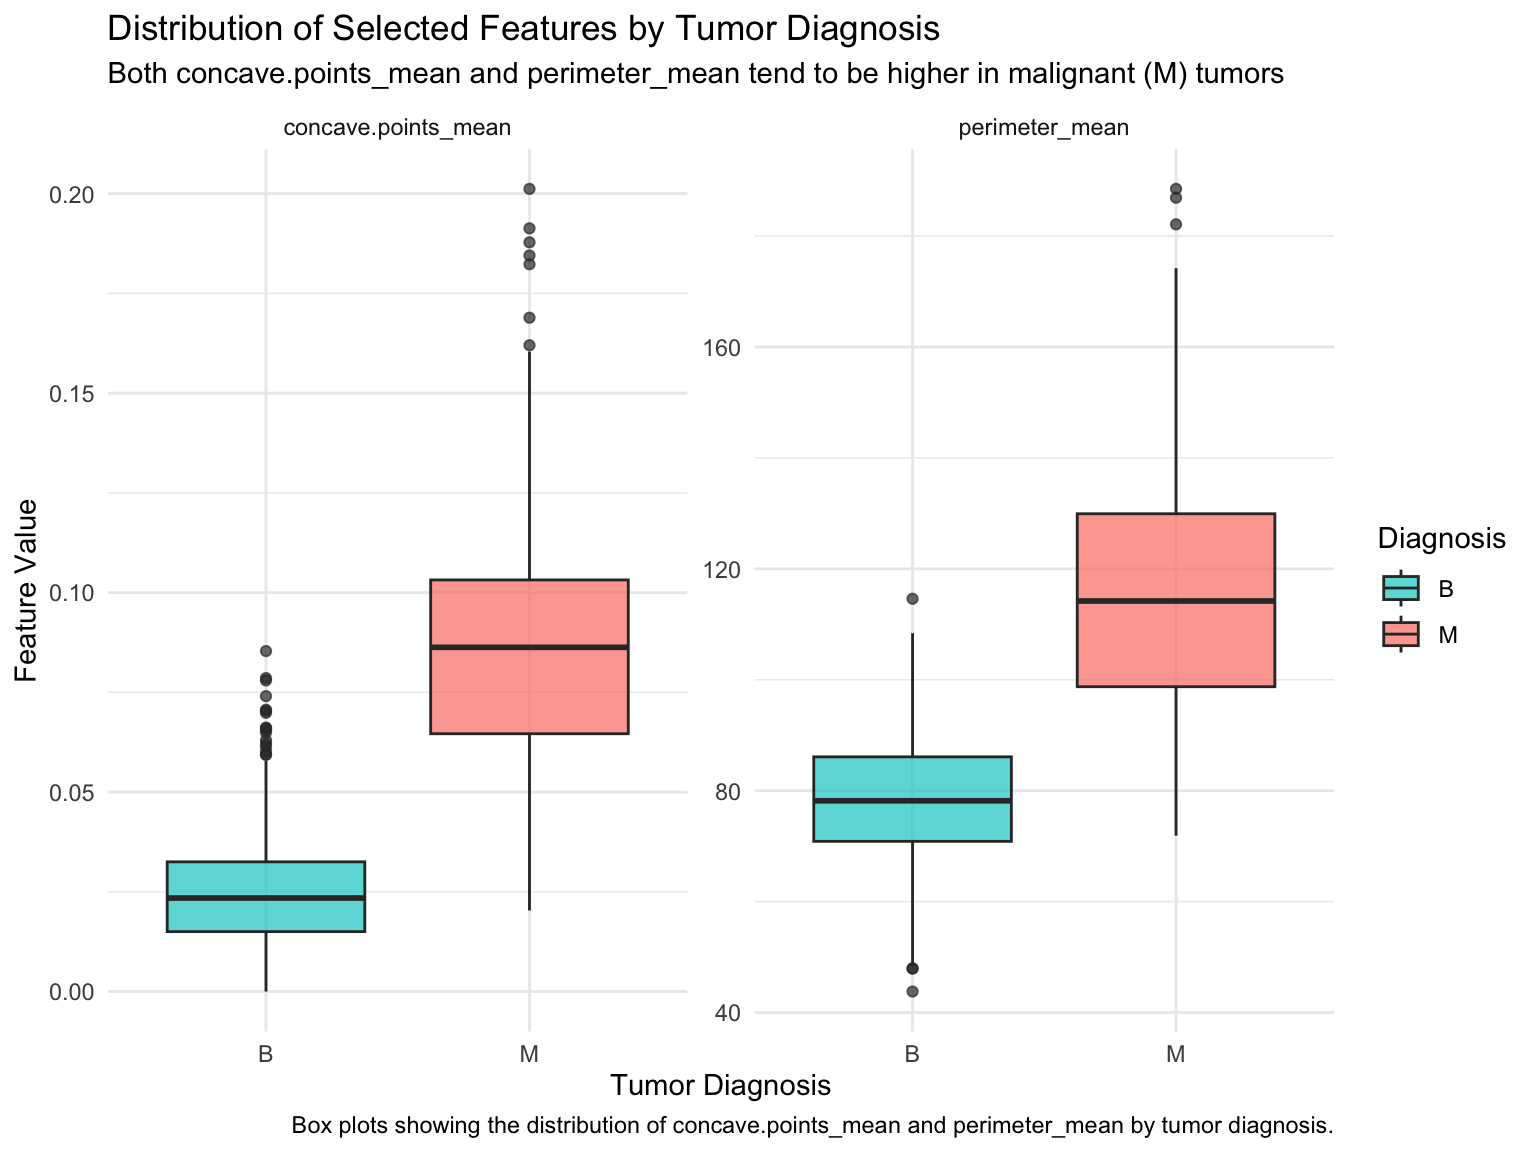
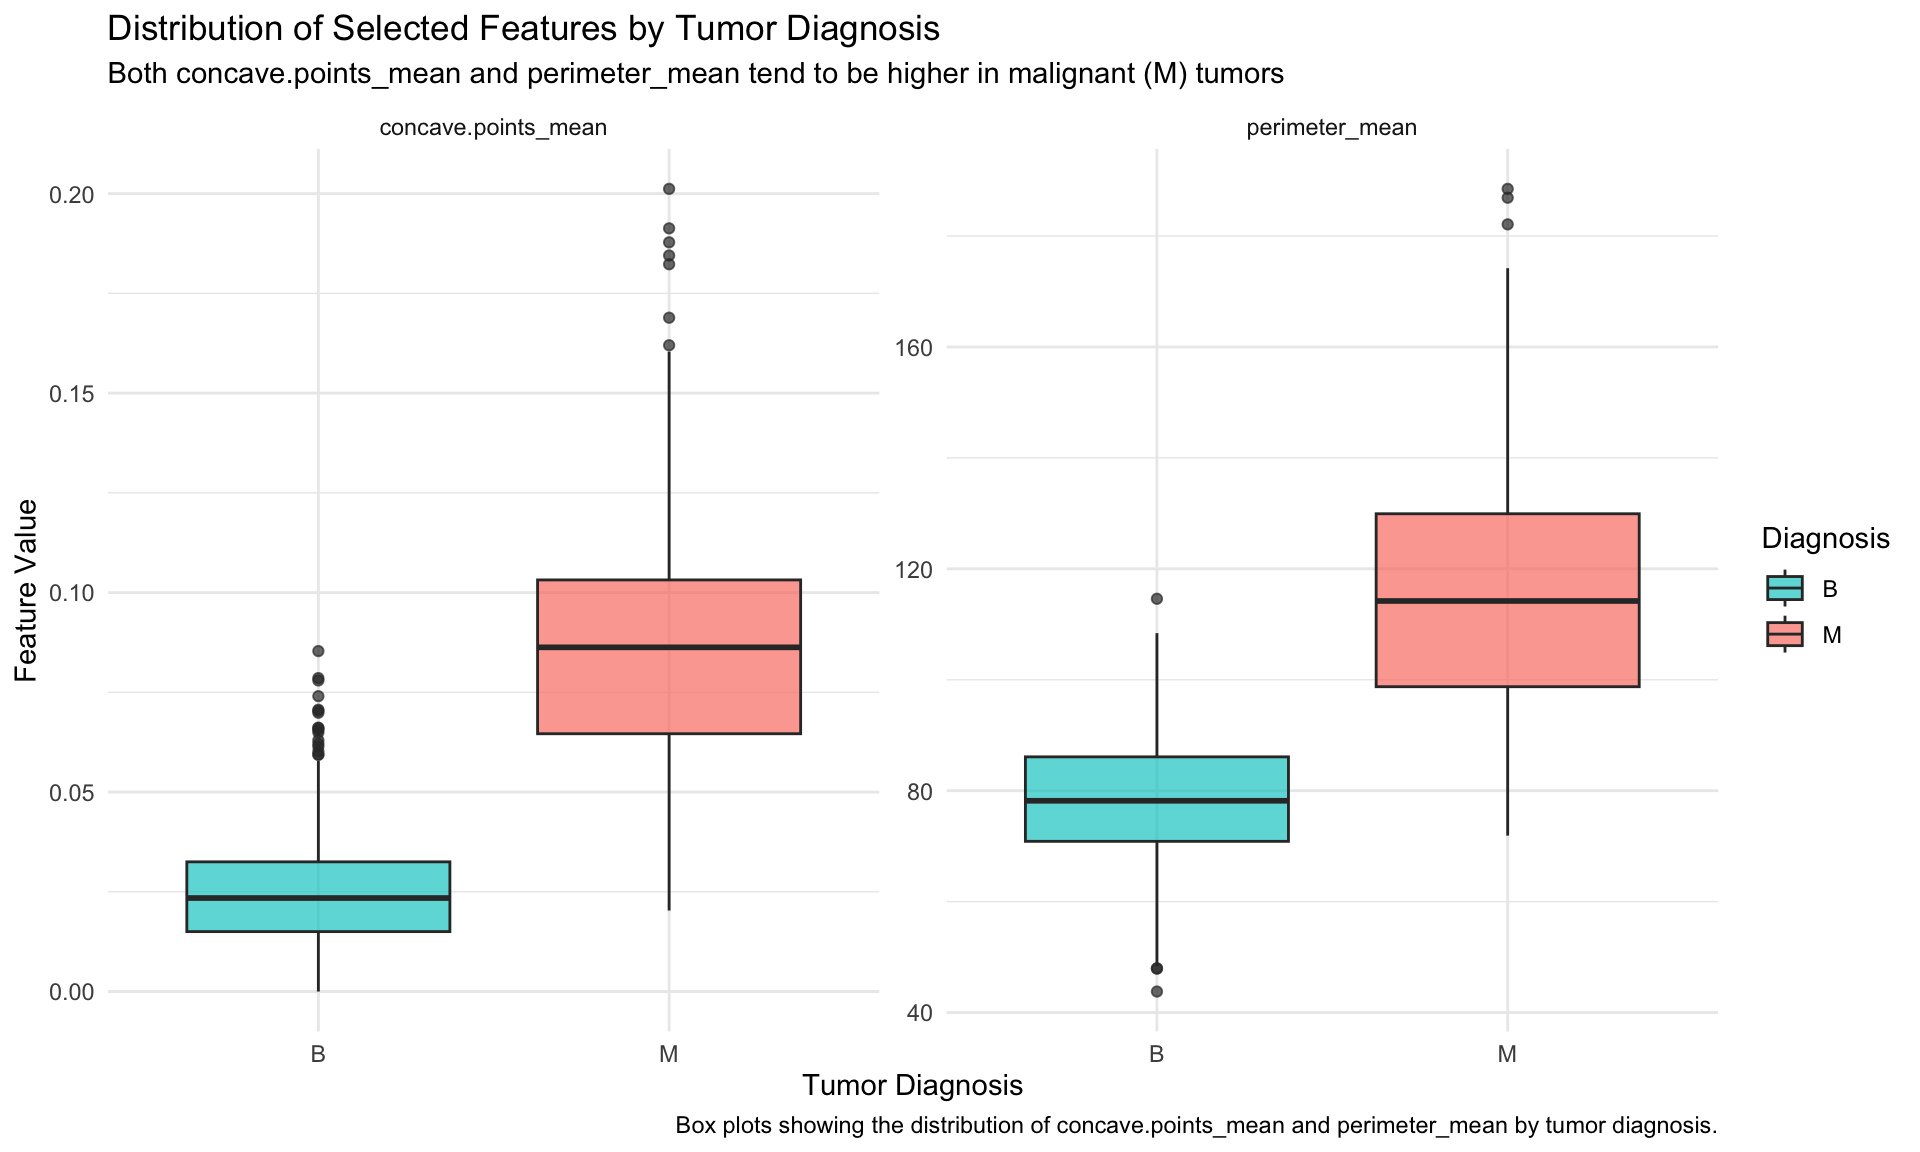
Update project files and reconnect to GitHub

diff --git a/_site/about.html b/_site/about.html
@@ -119,7 +119,7 @@ ul.task-list li input[type="checkbox"] {
     <h2 id="toc-title">On this page</h2>
    
   <ul>
-  <li><a href="#about-guan-gui" id="toc-about-guan-gui" class="nav-link active" data-scroll-target="#about-guan-gui">About Guan Gui</a>
+  <li><a href="#introduction" id="toc-introduction" class="nav-link active" data-scroll-target="#introduction">Introduction</a>
   <ul class="collapse">
   <li><a href="#education" id="toc-education" class="nav-link" data-scroll-target="#education">Education</a></li>
   <li><a href="#research-and-professional-experience" id="toc-research-and-professional-experience" class="nav-link" data-scroll-target="#research-and-professional-experience">Research and Professional Experience</a></li>
@@ -151,48 +151,42 @@ ul.task-list li input[type="checkbox"] {
 </header>
 
 
-<section id="about-guan-gui" class="level1">
-<h1>About Guan Gui</h1>
+<section id="introduction" class="level1">
+<h1>Introduction</h1>
 <p>I am currently an ScM student in Biostatistics at Johns Hopkins Bloomberg School of Public Health, following my completion of a first-class honours degree in Data Science at the University of Sydney. My research interests span biostatistics, spatial genomics, and machine learning, with a focus on analyzing and deriving insights from complex data.</p>
 <section id="education" class="level2">
 <h2 class="anchored" data-anchor-id="education">Education</h2>
 <ul>
-<li><p><strong>Master of Science in Biostatistics (ScM)</strong><br>
-Johns Hopkins Bloomberg School of Public Health<br>
-<span style="float: right;">Sep.&nbsp;2024 - Present</span><br>
-Baltimore, MD</p></li>
-<li><p><strong>Bachelor of Science (Honours) in Data Science</strong><br>
-University of Sydney<br>
-<span style="float: right;">Mar.&nbsp;2021 - Jul.&nbsp;2024</span><br>
-Sydney, Australia<br>
+<li><p><strong>Master of Science in Biostatistics (ScM)</strong> <span style="float: right; text-align: right;">Sep.&nbsp;2024 - Present<br>
+📍 Baltimore, MD</span><br>
+<em>Johns Hopkins Bloomberg School of Public Health</em></p></li>
+<li><p><strong>Bachelor of Science (Honours) in Data Science</strong> <span style="float: right; text-align: right;">Mar.&nbsp;2021 - Jul.&nbsp;2024<br>
+📍 Sydney, Australia</span><br>
+<em>University of Sydney</em><br>
 Graduated with First Class Honours<br>
-<em>Awards</em>: Vice Chancellor’s Global Mobility Scholarship, Dalyell Scholar, Charles Perkins Centre Summer Research Scholarship</p></li>
-<li><p><strong>Semester Exchange</strong><br>
-National University of Singapore<br>
-<span style="float: right;">Aug.&nbsp;2022 - Dec.&nbsp;2022</span><br>
-Singapore</p></li>
-<li><p><strong>Summer &amp; Winter Schools</strong><br>
-Shanghai Jiao Tong University<br>
-<span style="float: right;">Dec.&nbsp;2021, Jul.&nbsp;2022</span><br>
-Shanghai, China</p></li>
+<strong>Awards:</strong> Vice Chancellor’s Global Mobility Scholarship, Dalyell Scholar, Charles Perkins Centre Summer Research Scholarship</p></li>
+<li><p><strong>Semester Exchange</strong> <span style="float: right; text-align: right;">Aug.&nbsp;2022 - Dec.&nbsp;2022<br>
+📍 Singapore</span><br>
+<em>National University of Singapore</em></p></li>
+<li><p><strong>Summer &amp; Winter Schools</strong> <span style="float: right; text-align: right;">Dec.&nbsp;2021, Jul.&nbsp;2022<br>
+📍 Shanghai, China</span><br>
+<em>Shanghai Jiao Tong University</em></p></li>
 </ul>
 </section>
 <section id="research-and-professional-experience" class="level2">
 <h2 class="anchored" data-anchor-id="research-and-professional-experience">Research and Professional Experience</h2>
 <ul>
-<li><p><strong>SpatialFeatures Project</strong><br>
+<li><p><strong>SpatialFeatures Project</strong> <span style="float: right; text-align: right;">Jul.&nbsp;2023 - Present<br>
+📍 Sydney, Australia</span><br>
 <em>University of Sydney</em><br>
-<span style="float: right;">Jul.&nbsp;2023 - Present</span><br>
 Developed the “SpatialFeatures” algorithm to analyze spatial genomics data at cellular and sub-cellular levels, creating a versatile R package for use across genomics datasets.</p></li>
-<li><p><strong>Data Analyst Intern</strong><br>
+<li><p><strong>Data Analyst Intern</strong> <span style="float: right; text-align: right;">Jan.&nbsp;- May 2022<br>
+📍 Shanghai, China</span><br>
 <em>DiAct Technology Co., Ltd.&nbsp;(Ipsos)</em><br>
-<span style="float: right;">Jan.&nbsp;- May 2022</span><br>
-Shanghai, China<br>
 Analyzed social media data for automotive trends, improving data processing by 30% through Python optimizations.</p></li>
-<li><p><strong>User Growth Intern</strong><br>
+<li><p><strong>User Growth Intern</strong> <span style="float: right; text-align: right;">Jul.&nbsp;- Oct.&nbsp;2021<br>
+📍 Beijing, China</span><br>
 <em>JD.com</em><br>
-<span style="float: right;">Jul.&nbsp;- Oct.&nbsp;2021</span><br>
-Beijing, China<br>
 Enhanced SQL processes and developed metrics for improved user engagement recommendations.</p></li>
 </ul>
 </section>

diff --git a/_site/example_analysis.html b/_site/example_analysis.html
@@ -543,7 +543,7 @@ Note
 <div class="cell-output-display">
 <div>
 <figure class="figure">
-<p><img src="example_analysis_files/figure-html/target-variable-1.png" class="img-fluid figure-img" width="576"></p>
+<p><img src="example_analysis_files/figure-html/target-variable-1.png" class="img-fluid figure-img" width="960"></p>
 </figure>
 </div>
 </div>
@@ -577,7 +577,7 @@ Note
 <div class="cell-output-display">
 <div>
 <figure class="figure">
-<p><img src="example_analysis_files/figure-html/faceted-plot-1.png" class="img-fluid figure-img" width="768"></p>
+<p><img src="example_analysis_files/figure-html/faceted-plot-1.png" class="img-fluid figure-img" width="960"></p>
 </figure>
 </div>
 </div>

diff --git a/_site/styles.css b/_site/styles.css
@@ -45,3 +45,9 @@ img {
   border: 3px solid #800000;
   border-radius: 10px;
 }
+
+.right-align {
+    float: right;
+    text-align: right;
+    margin-left: auto;
+}

diff --git a/styles.css b/styles.css
@@ -45,3 +45,9 @@ img {
   border: 3px solid #800000;
   border-radius: 10px;
 }
+
+.right-align {
+    float: right;
+    text-align: right;
+    margin-left: auto;
+}
